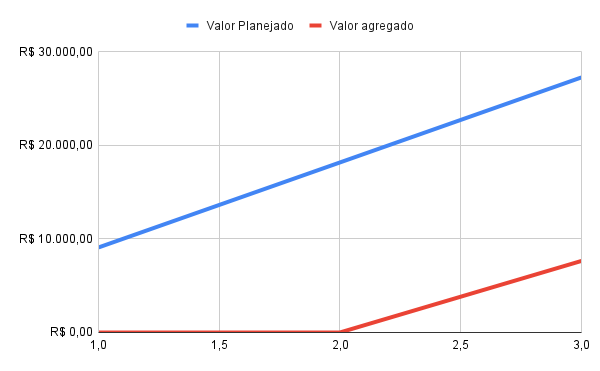
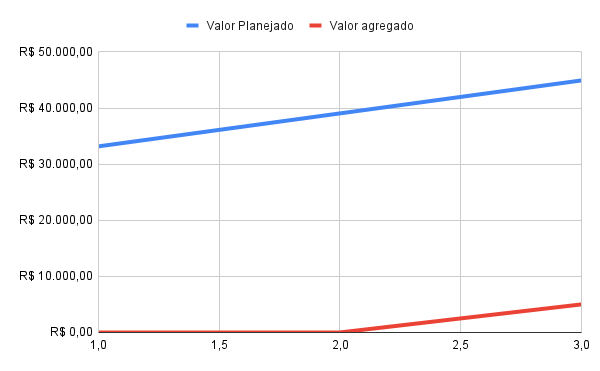
Adiciona gráfico de valor agregado versus valor planejado

diff --git a/docs/metodologia/custo.md b/docs/metodologia/custo.md
@@ -107,6 +107,10 @@ Como nem sempre o custo planejado é igual ao custo real, é necessário utiliza
     - Mesmo objetivo da SPI
     - `CPI = Valor Agregado/Custo Real`
 
+## Valor Agregado x Valor Planejado
+Esse gráfico tem como objetivo facilitar a visualização da diferença entre o valor planejado e o valor agregado da equipe.
+
+[![](imagens/valorPlanejado_valorAgregado.png)](imagens/valorPlanejado_valorAgregado.png)
 
 
 ## Referências 
